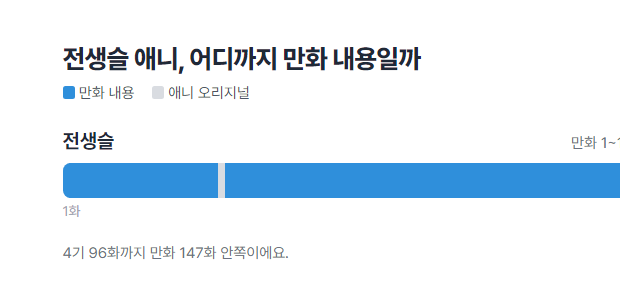
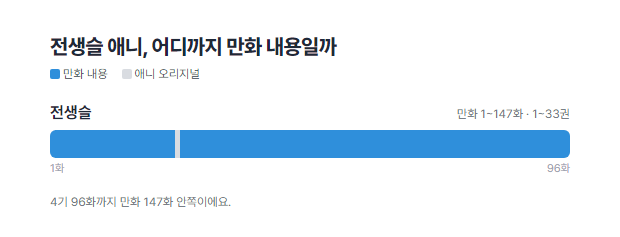
sync: 2026-10-28_23-07-25

diff --git a/콘텐츠/블로그_카페/memorily_티스토리/애니환산기/그림.py b/콘텐츠/블로그_카페/memorily_티스토리/애니환산기/그림.py
@@ -81,7 +81,7 @@ open(f"{out}/{key}-chart.html", "w", encoding="utf-8").write(HEAD + chart)
 
 def capture(kind):
     png = Path(out) / f"{key}-{kind}.png"
-    subprocess.run([CHROME, "--headless=new", "--disable-gpu", "--hide-scrollbars", f"--user-data-dir={out}/prof",
+    subprocess.run([CHROME, "--headless=new", "--disable-gpu", "--hide-scrollbars", "--force-device-scale-factor=1", f"--user-data-dir={out}/prof",
                     "--window-size=680,1000", "--virtual-time-budget=6000", f"--screenshot={png}",
                     (Path(out) / f"{key}-{kind}.html").as_uri()], capture_output=True, timeout=120)
     im = Image.open(png).convert("RGB")

diff --git a/콘텐츠/블로그_카페/포스팅자동화/원고/T179_나고야다카야마시라카와고/원고.md b/콘텐츠/블로그_카페/포스팅자동화/원고/T179_나고야다카야마시라카와고/원고.md
@@ -1,0 +1,188 @@
+# [원고] T179 · 11월 말 나고야 3박 4일, 다카야마·시라카와고 교통비 계산 (중부국제공항·히다·노히버스)
+
+사이트: 눈잎
+분류: 눈잎 > 일본 > 코스
+
+| 항목 | 내용 |
+|---|---|
+| 형식 | 일본 여행 권역 N박 N일 코스 · 해요체 · 비교표·정보 카드 |
+| 채널 | 눈잎 (티스토리) |
+| 넣을 카테고리 | 눈잎 › 일본 여행 |
+| 맞춘 컨셉 | 권역 = 거점(나고야) + 묶어 가는 곳(다카야마·시라카와고). 일정 표·공항 교통 비교표·패스 손익·일차별·엔 + 원·여행 전 준비. 감상은 장소 코멘트 한 줄까지 |
+| 각도 | 나고야에서 산악 마을 두 곳을 묶는 동선을 시간·교통·엔+원으로 한 장에 맞춘다. 공항 → 나고야 수단 비교, 히다 열차 vs 고속버스 낱개 계산, 패스 손익 기준선, 시라카와고 버스 예약·요금 개정 확인 |
+| 이 글에만 있는 것 | 직접 계산(3박 4일 낱개 합 20,380엔, 패스 대상 구간 17,880엔 기준선, 열차 대신 버스 시 절감액) + 공항 → 나고야 비교표(본문 '2') + 노히버스 12/1 개정 대조(본문 '3') |
+| 왜 지금 | F 시즌 — 11월 하순~12월 초 출발 4주 전. 권역(주부) 21일 안에 없음(기획표) |
+| 게시 적기 | 10/29~11/15 |
+| 대가성 표기 | 없음 |
+| 겹침 확인 | 히로시마 T166·삿포로 T151·오키나와 T141·북큐슈 T131·도쿄 T122 와 권역 다름. 밤밤 해외여행은 일본 제외 |
+| 참고 조사 | 트렌드: 기획표(F 시즌). 확인한 공식 출처: 노히버스(노선 페이지·12/1 개정 공지), 나고야시 관광 안내(공항 교통). 2차: 에키탄(미뉴 스카이·히다), 버스 예약 사이트(나고야~다카야마 버스), 기후현 자료(다카야마 진야). 가져온 점: 다카야마~시라카와고 현행 2,800엔, 12/1부터 개정이라 11월 안에 끝나는 일정이 유리 |
+
+## 손질하면 좋아지는 곳 (사용자 몫)
+
+1. 환율: 100엔 = 844.95원(하나은행 10/23 고시, T151 조사 재사용)으로 계산했어요. 게시일 환율로 바꿔 주세요(엔 × 환율/100).
+2. 가는 날 시간표: 히다(나고야~다카야마) 열차 시각과 시라카와고 버스 중 예약제 편, 일차 4 항공편 시각은 날짜가 정해지면 맞춰 주세요.
+3. 직접 찍은 다카야마 산마치 거리나 시라카와고 사진, 마음에 든 곳 감상 한 줄.
+
+## 확인한 사실
+
+| 사실 | 출처 링크 | 확인 |
+|---|---|---|
+| 중부국제공항 → 나고야역: 메이테츠 뮤스카이·특급 28~35분, 운임 890엔(지정석 +360엔). 택시 약 50분 약 12,000엔. 메이테츠 버스는 운휴 중 | [나고야시 관광 안내](https://www.nagoya-info.jp/access/centrair/) | 2026-10-28, 시 공식 안내 |
+| 에키탄 2026 기사는 나고야→공항 890엔+뮤 티켓 450엔(합 1,340엔)으로 적음. 시 안내(360엔)와 엇갈림 | [에키탄](https://ekitan.com/en/article/musky-jikoku-ryoukin) | 2026-10-28, 2차. 본문은 시 안내를 쓰고 엇갈림을 적음 |
+| 다카야마~시라카와고 편도 2,800엔, 약 50분. 예약제 편과 무예약 편이 있고 예약은 전화(0577-32-1688)·발차 오라이넷 | [노히버스 시라카와고](https://www.nouhibus.co.jp/route_bus/shirakawago/) | 2026-10-28, 공식 |
+| 다카야마~시라카와고 노선 12/1부터 개정(10/19 공지), 다카야마 → 시라카와고 방향은 예약제로 복귀. 개정 금액은 못 읽음 | [노히버스 공지](https://www.nouhibus.co.jp/261020-2/) | 2026-10-28, 공식. 개정액은 확인 못 함 |
+| 다카야마 출발 19편: 7:20 · 7:50 · 8:10 · 8:50 · 9:35 · 10:50 · 11:20 · 11:50 · 12:10 · 12:50 · 13:10 · 13:20 · 13:50 · 14:30 · 14:50 · 16:20 · 16:30 · 17:50 · 19:00(평일만). 시라카와고 출발 23편 8:20~19:57. 일부 편 토일공휴 운휴. 겨울 눈·통행 중단으로 2시간 이상 지연 가능 | 같은 페이지 | 2026-10-28, 공식. 어느 편이 예약제인지는 못 읽음 |
+| 노히버스 고속버스 나고야~다카야마 약 2시간 45분, 예약은 1개월 전부터. 요금은 공식 페이지에 없음 | [노히버스 고속버스](https://www.nouhibus.co.jp/highwaybus/) | 2026-10-28, 공식(요금 못 읽음) |
+| 나고야~다카야마 버스 편도 약 3,600엔, 약 2시간 50분 | [일본여행 버스 노선 안내](https://www.nta.co.jp/bus/routek/takayama-nagoya) | 2026-10-28, 2차(2026-08 갱신 표기) |
+| 특급 히다 나고야~다카야마 지정석 6,140엔(운임 3,410+특급 2,730), 자유석 5,610엔, 약 2시간 30분. 성수기 지정 기간엔 전석 지정 | [에키탄 히다](https://ekitan.com/en/article/hida) | 2026-10-28, 2차(JR 도카이 공식은 못 열었음) |
+| 다카야마·호쿠리쿠 에어리어 패스 5일권 19,800엔 | [japanactivity](https://japanactivity.com/takayama-hokuriku-area-tourist-pass-guide) | 2026-10-28, 2차, 공식 대조 못 함 |
+| 다카야마 진야 11~3월 8:45~16:30(입장 16:00 마감), 12/29~1/3 휴관. 입관료 440엔·500엔 두 자료가 엇갈림 | [기후현 자료](https://www.pref.gifu.lg.jp/uploaded/attachment/419469.pdf) | 2026-10-28, 현 자료. 요금 확인 못 함 |
+| 다카야마시 숙박세 2025-10-01 시작, 1박 1인 숙박료 1만 엔 미만 100엔·1만~3만 엔 미만 200엔·3만 엔 이상 300엔, 12세 미만 면제 | [Fairfield by Marriott 공지](https://fairfield-michinoeki-japan.com/en/topic-details-notice-of-accommodation-tax) | 2026-10-28, 숙소 공지(2차) |
+| 환율 100엔 = 844.95원 (하나은행, 2026-10-23) | T151 조사 재사용 | 오늘 환율은 확인 못 함 |
+| 확인 못 함 | 시라카와고 와다 가옥 등 입장 시간·요금, 2026 단풍 시기, 12/1 개정 금액, 히다 시각표, 나고야 지하철 요금, 다카야마 모닝마켓 시간 | 본문에 쓰지 않거나 '확인 못 함' |
+
+---
+
+<!-- 본문 시작 -->
+
+# 11월 말 나고야 3박 4일, 다카야마·시라카와고 교통비 계산 (중부국제공항·히다·노히버스)
+
+<!-- 제휴가 있으면 이 줄에 대가성 문구 -->
+
+> 10월 28일 노히버스·나고야시 관광 안내 기준, 11월 말 나고야 3박 4일 교통비는 낱개로 약 20,380엔(약 172,200원)이에요.
+> 다카야마~시라카와고 버스는 지금 편도 2,800엔이고 12월 1일부터 노선이 개정돼요. 11월 안에 다녀오면 현행 요금으로 끝나요.
+> 나고야에서 다카야마로 가는 길은 열차(히다)가 약 2시간 30분, 고속버스가 약 2시간 45분이에요.
+
+## 목차
+
+| 순서 | 내용 |
+|---|---|
+| 1 | 한눈에 보는 3박 4일 |
+| 2 | 공항에서 나고야, 뭘 탈까? |
+| 3 | 패스가 이득일까, 시라카와고 버스는? |
+| 4 | 1일차 · 나고야 |
+| 5 | 2일차 · 다카야마 |
+| 6 | 3일차 · 시라카와고와 나고야 복귀 |
+| 7 | 4일차와 여행 전 준비 |
+
+## 1. 한눈에 보는 3박 4일
+
+숙소는 1박 나고야역 근처, 2박 다카야마, 3박 나고야역 근처로 잡는 걸 전제로 짰어요. 금액은 어른 1명, 낱개 기준이에요. 히다 지정석 요금은 2차 자료예요.
+
+| 📅 일차 | 🏨 거점 | 🗺 동선 | 🚃 이동 수단·시간 | 💴 그날 교통비 |
+|---|---|---|---|---|
+| 1일차 | 나고야 | 중부국제공항 → 나고야역 | 뮤스카이 약 30분 | 1,250엔 (약 10,600원) |
+| 2일차 | 다카야마 | 나고야 → 다카야마 → 산마치 일대 | 히다 약 2시간 30분 | 6,140엔 (약 51,900원) |
+| 3일차 | 나고야 | 다카야마 → 시라카와고 → 다카야마 → 나고야 | 노히버스 왕복 약 50분씩, 히다 | 11,740엔 (약 99,200원) |
+| 4일차 | 공항 | 나고야 → 중부국제공항 | 뮤스카이 약 30분 | 1,250엔 (약 10,600원) |
+| 합계 | | | | 20,380엔 (약 172,200원) |
+
+3일차는 버스 왕복 5,600엔과 히다 6,140엔이에요. 나고야 시내 지하철은 이 글에서 요금을 확인하지 못해 뺐어요.
+
+환율은 100엔 = 844.95원(하나은행 10월 23일 고시)으로 계산했어요. 게시일 환율과 조금 다를 수 있어요.
+
+## 2. 공항에서 나고야, 뭘 탈까?
+
+나고야시 관광 안내에 나온 수단이에요. 일부 자료는 뮤 티켓(지정석) 값을 450엔으로 적어 총 1,340엔이라고 하지만, 시 안내는 360엔이라 합쳐서 1,250엔이에요.
+
+| 🚃 수단 | 📍 도착 | ⏱ 소요 | 💴 편도 요금 | 👍 장점 | 🙋 맞는 사람 |
+|---|---|---|---|---|---|
+| 뮤스카이 (전석 지정) | 메이테츠 나고야 | 약 28~35분 | 1,250엔 (약 10,600원) | 가장 빠르고 자리 보장 | 대부분 |
+| 특급 (일반차 있음) | 메이테츠 나고야 | 약 28~35분 | 890엔 (약 7,500원) | 지정석 값을 아낌 | 짐 적은 사람 |
+| 택시 | 나고야 시내 | 약 50분 | 약 12,000엔 (약 101,400원) | 문 앞까지 | 4인 이상, 새벽 도착 |
+
+- 메이테츠 버스는 지금 운휴 중이라고 시 안내에 적혀 있어요.
+- 특급 일반차에 자유석이 있는지는 열차마다 달라서, 승차권 살 때 확인해요.
+- 나고야역에서 JR로 갈아타는 히다는 메이테츠 나고야에서 JR 나고야까지 도보 환승이에요.
+
+## 3. 패스가 이득일까, 시라카와고 버스는?
+
+나고야~다카야마는 열차(히다)와 고속버스 두 가지예요.
+
+| 🚃 수단 | ⏱ 소요 | 💴 편도 | 💴 왕복 |
+|---|---|---|---|
+| 특급 히다 지정석 | 약 2시간 30분 | 6,140엔 (약 51,900원) | 12,280엔 (약 103,800원) |
+| 고속버스 | 약 2시간 45~50분 | 약 3,600엔 (약 30,400원) | 7,200엔 (약 60,800원) |
+
+버스로 왕복하면 5,080엔(약 42,900원) 아끼고, 편도 15~20분 더 걸려요. 버스 요금은 예약 사이트 표기라 예매 때 한 번 더 확인해요. 히다는 성수기 지정 기간엔 전석 지정이라 자유석이 없어요.
+
+다카야마~시라카와고는 노히버스가 편도 2,800엔(약 23,700원), 왕복 5,600엔(약 47,300원)이에요. 약 50분이에요.
+
+- 패스: 다카야마·호쿠리쿠 에어리어 패스 5일권이 19,800엔이라는 자료가 있어요. 공식에서 확인하지 못했어요.
+- 이 일정에서 패스로 갈 수 있는 구간은 히다 왕복 12,280엔과 버스 왕복 5,600엔, 합 17,880엔이에요. 패스가 19,800엔이 맞다면 낱개가 더 싸서 안 사도 돼요.
+- 공항 구간 2,500엔은 패스에 포함되지 않아요. 패스는 오사카·가나자와까지 넓게 돌 때 이득이 돼요.
+- 12월 1일 개정: 노히버스가 10월 19일 공지로 12월 1일부터 다카야마~시라카와고 노선을 개정한다고 알렸어요. 다카야마에서 시라카와고로 가는 방향은 예약제로 돌아가요. 개정 금액은 공지에서 읽지 못했어요.
+- 11월 안에 끝나는 일정이면 현행 2,800엔으로 갈 수 있어요. 12월에 가면 노히버스 공지를 먼저 봐요.
+
+## 4. 1일차 · 나고야
+
+공항에서 뮤스카이로 나고야에 와 숙소에 짐을 두고, 남은 시간은 역 주변에서 쉬는 걸로 비워 둬요. 다음 날 아침 히다를 타야 해서 일찍 쉬는 편이 좋아요.
+
+- 이동: 중부국제공항역 → 뮤스카이 → 메이테츠 나고야역 (28~35분, 1,250엔)
+- 숙소는 JR 나고야역 근처가 좋아요. 히다도 4일차 공항행도 이 역에서 갈아타요.
+
+## 5. 2일차 · 다카야마
+
+나고야역에서 히다를 타고 다카야마로 가요. 약 2시간 30분이에요. 지정석은 한 달 전 오전 10시에 팔기 시작한다고 해요. 11월 말은 성수기 지정 기간이 될 수 있어서 일찍 사 두는 게 안전해요.
+
+도착하면 산마치 일대 옛 거리를 천천히 걷고, 오후 늦게 진야에 가요.
+
+::: 장소 | 다카야마 진야 (高山陣屋)
+⏰ 운영 시간 | 11~3월 8:45~16:30
+🚪 입장 마감 | 16:00
+💴 입장료 | 두 자료가 440엔·500엔으로 엇갈려 확인 못 함
+📅 휴무 | 12월 29일~1월 3일
+🚃 가는 법 | JR 다카야마역에서 도보 (소요 확인 못 함)
+📍 지도 | [구글 지도](https://www.google.com/maps/search/?api=1&query=%E9%AB%98%E5%B1%B1%E9%99%A3%E5%B1%8B)
+:::
+
+11월은 16시 반에 닫으니 오후 일찍 들어가는 편이 좋아요. 에도 시대 관청 건물이 그대로 남아 있다는 점이 놀라워요.
+
+다카야마시는 2025년 10월 1일부터 숙박세를 받아요. 1박 1인 100~300엔이고 12세 미만은 면제예요. 숙소 요금에 빠져 있으면 체크인 때 현금으로 내요.
+
+## 6. 3일차 · 시라카와고와 나고야 복귀
+
+아침에 다카야마 노히버스센터에서 시라카와고 버스를 타요. 약 50분이에요. 노히버스 시간표에서 다카야마 출발은 8:50 · 9:35 · 10:50이 오전이에요. 눈이 오는 계절엔 2시간 넘게 늦을 수 있어서, 돌아오는 시간을 넉넉히 잡아요.
+
+| 🚌 구간 | 🕘 오전 예시 | 💴 편도 | 📝 메모 |
+|---|---|---|---|
+| 다카야마 → 시라카와고 | 8:50 · 9:35 출발 | 2,800엔 (약 23,700원) | 예약제 편 있음 |
+| 시라카와고 → 다카야마 | 14:10 · 15:10 · 15:30 출발 | 2,800엔 (약 23,700원) | 시간표에 표시 |
+
+어느 편이 예약제인지는 시간표 표시로 구분돼요. 예약은 전화(0577-32-1688)나 발차 오라이넷으로 해요. 일부 편은 토일공휴일에 운휴예요.
+
+::: 장소 | 시라카와고 오기마치 (白川郷 荻町)
+⏰ 운영 시간 | 마을은 상시 개방 · 가옥별 시간 확인 못 함
+💴 입장료 | 가옥별 요금 확인 못 함
+🎫 예약 | 마을 입장은 필요 없음 · 버스는 [노히버스](https://www.nouhibus.co.jp/route_bus/shirakawago/)
+🚃 가는 법 | 노히버스 시라카와고(오기마치) 정류장 하차
+📍 지도 | [구글 지도](https://www.google.com/maps/search/?api=1&query=%E7%99%BD%E5%B7%9D%E9%83%B7%E8%8D%BB%E7%94%BA)
+:::
+
+시라카와고에서는 점심까지 마을을 한 바퀴 걷고, 돌아오는 버스를 정해요. 사진으로 보던 합장 지붕을 직접 보면 크기에 놀랄 거예요. 가옥 입장 시간과 요금은 이 글에서 확인하지 못해 뺐어요.
+
+다카야마에 돌아와 히다로 나고야에 가요. 시각표는 JR 도카이에서 확인해 맞춰요. 마지막 편은 이 글에서 확인하지 못했어요.
+
+## 7. 4일차와 여행 전 준비
+
+4일차는 나고야에서 뮤스카이로 공항에 가요. 항공편 출발 2시간 전에는 공항에 도착하도록 열차를 골라요.
+
+- 입국: 출발 전에 [Visit Japan Web](https://www.vjw.digital.go.jp/)에 입국 심사·세관 정보를 등록하고 QR 코드를 받아 둬요.
+- 결제: 다카야마 진야 같은 곳은 현금을 따로 준비해요. 요금이 확인 안 되는 곳이 있어요.
+- 날씨: 다카야마와 시라카와고는 나고야보다 추워요. 눈이 올 수 있어 겹쳐 입어요.
+- 면세: 2026년 11월 1일 구매분부터 환급 방식이 바뀌어요. 세금을 포함해 내고 출국 때 확인받는 방식이에요 ([관광청 안내](https://www.mlit.go.jp/kankocho/tax-free/page01_000001_00021.html)).
+- 환율: 환전은 출발 전에 오늘 환율을 한 번 확인해요.
+
+## 마무리
+
+3박 4일 교통비는 낱개로 약 20,380엔이고, 패스는 오사카·가나자와까지 가지 않는 이상 필요 없어 보여요. 둘째 날 산마치 거리와 진야를 천천히 걷고, 셋째 날 아침 버스로 시라카와고에 가면 좋아요. 12월 개정 전에 다녀오세요, 잘 다녀오세요.
+
+참고: [나고야시 관광 안내](https://www.nagoya-info.jp/access/centrair/) · [노히버스 시라카와고](https://www.nouhibus.co.jp/route_bus/shirakawago/) · [노히버스 12/1 개정 공지](https://www.nouhibus.co.jp/261020-2/) · [노히버스 고속버스](https://www.nouhibus.co.jp/highwaybus/) · [에키탄 히다](https://ekitan.com/en/article/hida) · [에키탄 뮤스카이](https://ekitan.com/en/article/musky-jikoku-ryoukin) · [기후현 진야 자료](https://www.pref.gifu.lg.jp/uploaded/attachment/419469.pdf) · [관광청 면세 안내](https://www.mlit.go.jp/kankocho/tax-free/page01_000001_00021.html) (2026년 10월 28일 확인. 히다·버스 요금 일부는 2차 자료이고 요금·시간은 현지 공식 안내가 우선이에요)
+
+<!-- 본문 끝 -->
+
+---
+
+태그: 나고야3박4일, 다카야마, 시라카와고, 중부국제공항, 뮤스카이, 특급히다, 노히버스, 일본11월여행, 나고야교통비, 일본중부여행
+
+소개: 11월 말 나고야 거점 3박 4일을 공항 열차·히다·노히버스 낱개 합 20,380엔으로 계산했어요. 열차 대신 버스로 가면 아끼는 돈, 패스가 필요한지 기준, 12월 1일 노히버스 개정 전에 다녀오는 법을 엔·원으로 정리했어요.
